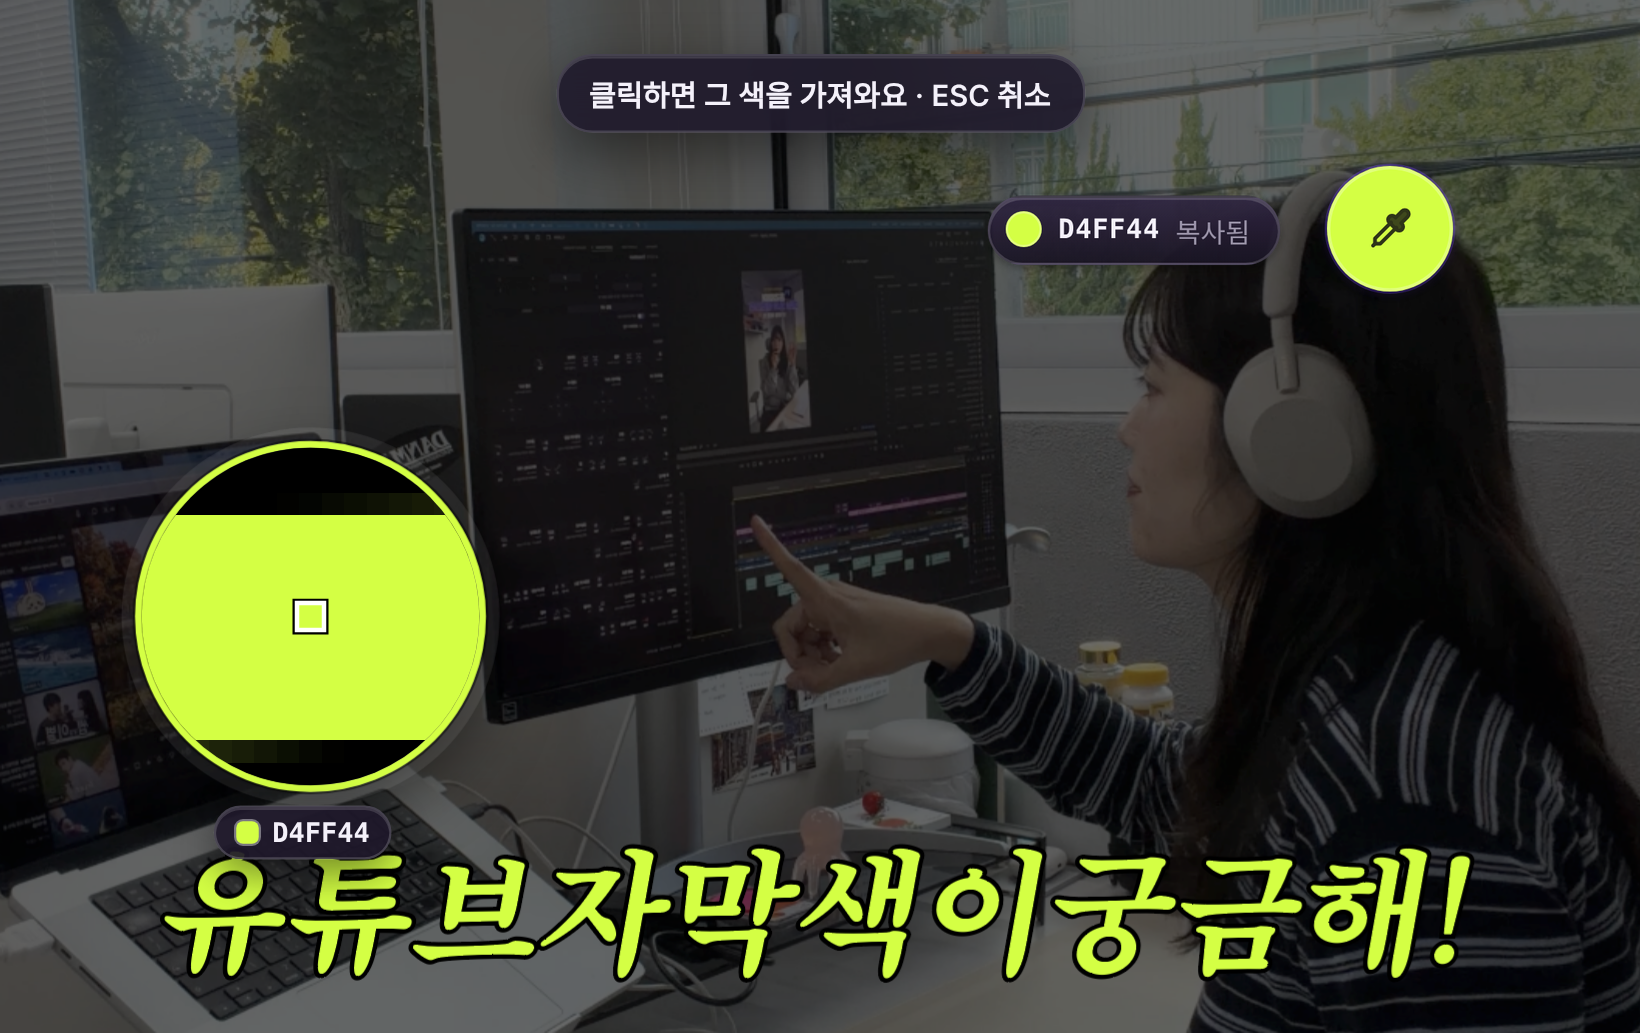
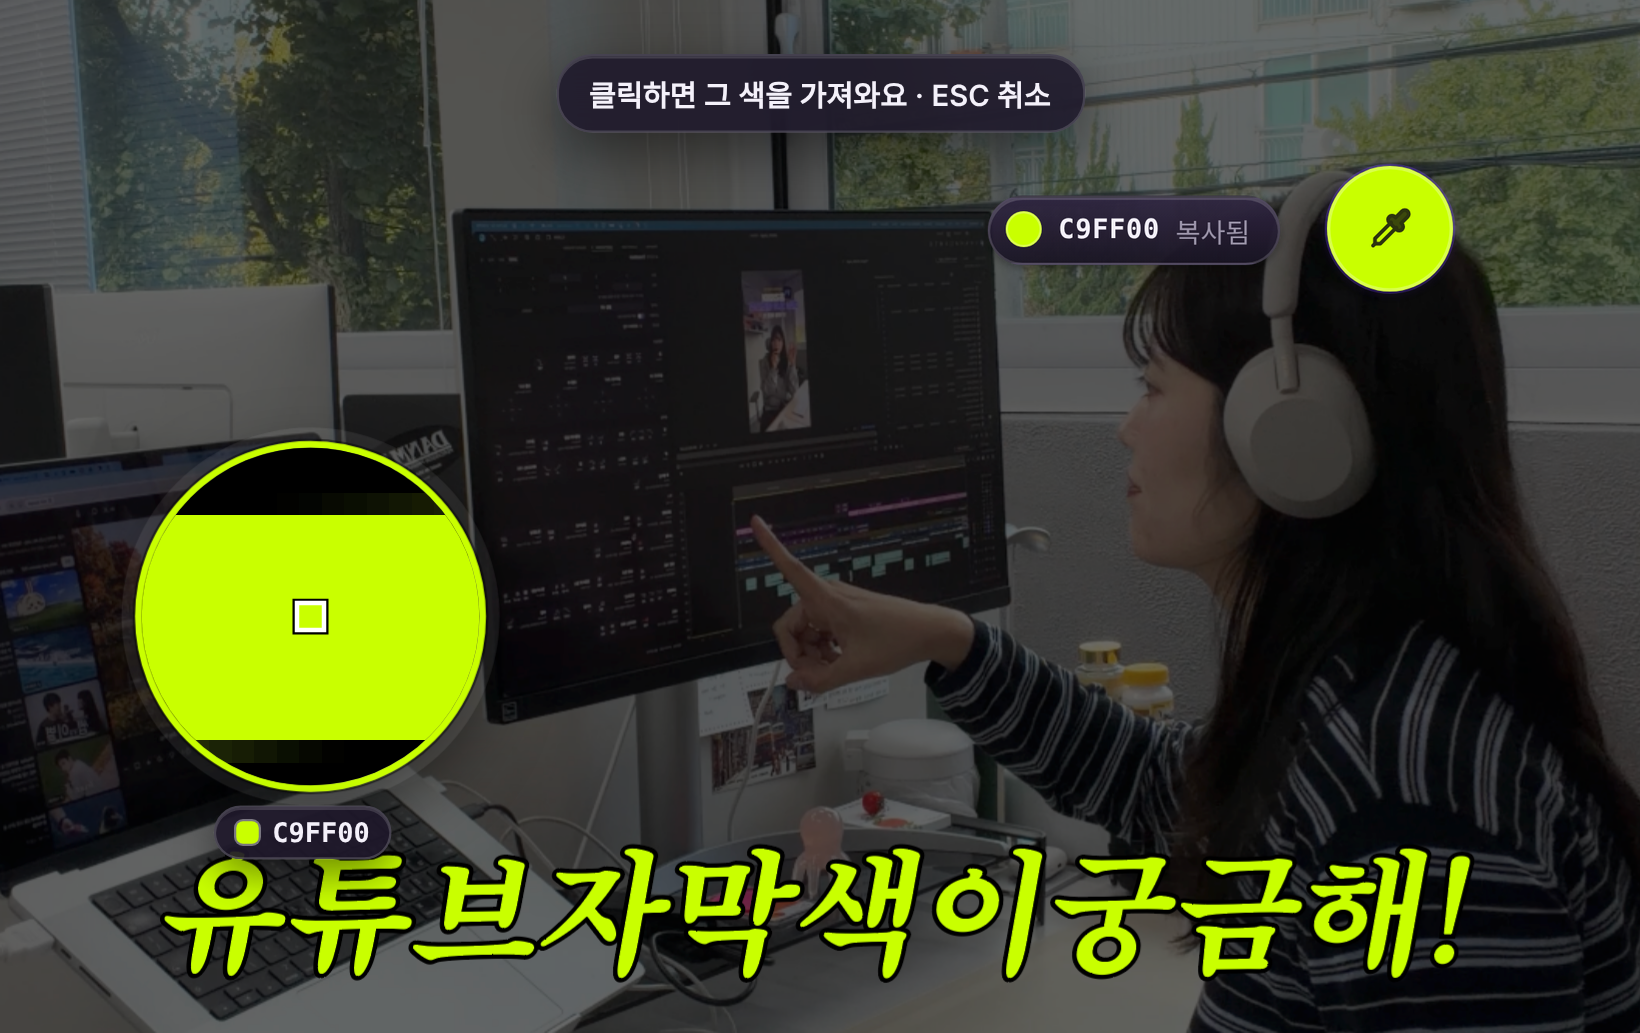
상세페이지: 기능 1 예시 되돌림, 맥·윈도우 설치 파일 포함 안내 추가
Claude-Session: https://claude.ai/code/session_01EN3DvmfasgiLr1rD7UWmUP

diff --git a/index.html b/index.html
@@ -161,12 +161,14 @@
     .row{grid-template-columns:1fr;gap:14px}.row .im{height:200px}
     table{font-size:15px}
   }
+  .dlnote{display:inline-block;margin-top:18px;font-size:17px;font-weight:700;color:#e9e3f5;background:rgba(255,255,255,.06);border:1px solid rgba(255,255,255,.12);padding:8px 18px;border-radius:99px}
 </style></head><body><div class="wrap">
   <nav class="top"><a class="brand" href="#"><img src="img2/icon-180.png" alt=""><span>0202<b>Swatch</b></span></a><div class="links"><a href="#features">기능</a><a href="#howto">사용 방법</a><a href="#spec">사양</a><a class="buy" href="https://0202production.imweb.me/shop">구매하기</a></div></nav>
   <div class="hero">
     <div>
       <span class="tag">컬러값, 아직도 메모장에서 복붙하시나요?</span>
       <h1>화면 어디서든<br><em>색을 뽑아 저장할 수 있어요</em></h1>
+      <p class="dlnote">🍎 맥 &nbsp;+&nbsp; 🪟 윈도우 설치 파일 모두 포함</p>
       <p class="lead">유튜브 화면, 레퍼런스 사진, 웹사이트 어디서든<br>클릭 한 번에 컬러값(#000000)을 복사할 수 있어요.<br>자주 쓰는 색은 프로젝트별로 저장하고,<br>팀원과 공유하세요.</p>
       
     </div>
@@ -199,7 +201,7 @@
     <h2>이런 걸 할 수 있어요</h2>
     <p class="sub2">컴퓨터에 설치하는 위젯이라<br>캡컷 · 파이널컷 · 프리미어 · 일러스트 등<br>어떤 프로그램을 쓰든 같이 쓸 수 있어요.</p>
     <div class="grid4">
-      <div class="feat"><img class="shot" src="img2/feat1.png?v=6"><div class="n">기능 1</div><h3>어디서든 색 수집, 자동 복사</h3><p>위젯을 누르거나 단축키를 누르면 확대경이 떠요.<br>원하는 곳을 찍는 순간 컬러값이 복사돼요.</p></div>
+      <div class="feat"><img class="shot" src="img2/feat1.png?v=7"><div class="n">기능 1</div><h3>어디서든 색 수집, 자동 복사</h3><p>위젯을 누르거나 단축키를 누르면 확대경이 떠요.<br>원하는 곳을 찍는 순간 컬러값이 복사돼요.</p></div>
       <div class="feat"><img class="shot c" src="img2/img.png"><div class="n">기능 2</div><h3>이미지·화면에서 색 조합 뽑기</h3><p>화면을 캡처하거나 이미지를 넣으면<br>추천 조합 5색과 많이 쓰인 색 8개를 뽑아줘요.<br>바로 프로젝트에 저장할 수 있어요.</p></div>
       <div class="feat"><img class="shot c" src="img2/f3.png"><div class="n">기능 3</div><h3>0202 기본 컬러 조합</h3><p>예능 자막, 정보·뉴스 그래픽, 브이로그 감성,<br>파스텔, 시네마틱, 레트로·Y2K, 무채색까지<br>바로 쓸 수 있는 조합이 들어 있어요.</p></div>
       <div class="feat"><img class="shot" src="img2/feat4.png"><div class="n">기능 4</div><h3>프로젝트별 관리 · 팀 공유</h3><p>클라이언트·채널별 폴더에 색을 모아두고,<br>컬러칩 이미지나 공유 코드로 팀원에게 넘겨줘요.<br>폴더 이름까지 그대로 가요.</p></div>
@@ -221,7 +223,7 @@
     <h2>사용 방법</h2>
     <p class="sub2">자주 쓰는 것부터 순서대로 모았어요.</p>
     <div class="use">
-      <div class="row"><div class="im "><img src="img2/loupe.png?v=6"></div><div><h3>🎯 색 뽑기</h3><ol><li>화면의 동그란 위젯 클릭<br>또는 단축키 <b>⌥⌘C</b> (윈도우 <b>Ctrl+Alt+C</b>)</li><li>확대경이 뜨면 원하는 곳 클릭</li><li>컬러값이 바로 복사돼요 · 취소는 Esc</li></ol></div></div>
+      <div class="row"><div class="im "><img src="img2/loupe.png?v=7"></div><div><h3>🎯 색 뽑기</h3><ol><li>화면의 동그란 위젯 클릭<br>또는 단축키 <b>⌥⌘C</b> (윈도우 <b>Ctrl+Alt+C</b>)</li><li>확대경이 뜨면 원하는 곳 클릭</li><li>컬러값이 바로 복사돼요 · 취소는 Esc</li></ol></div></div>
       <div class="row"><div class="im "><img src="img2/img.png"></div><div><h3>🖼 화면 캡처·이미지로<br>색 조합 뽑기</h3><ol><li><b>화면 영역 캡처</b> → 원하는 영역 드래그</li><li>이미지 파일은 <b>이미지에서 색 추출</b><br>또는 팔레트에 끌어놓기</li><li>추천 조합을 프로젝트에 저장</li></ol></div></div>
       <div class="row"><div class="im "><img src="img2/drag.png"></div><div><h3>✋ 드래그앤드롭으로 저장</h3><ol><li>최근 색을 프로젝트 폴더로 끌어놓기</li><li>폴더 안에서 끌면 순서 변경</li><li><b>⌥(Alt)</b>를 누른 채 끌면 복제</li></ol></div></div>
       <div class="row"><div class="im "><img src="img2/plus.png"></div><div><h3>➕ 지금 색 바로 넣기</h3><ol><li>폴더 맨 끝 점선 <b>＋</b> 클릭</li><li>현재 색이 맨 앞에 추가돼요</li><li>＋를 우클릭하면 색 고르기 창</li></ol></div></div>
@@ -241,6 +243,7 @@
     <p class="sub2">한 번 구매하면<br>맥·윈도우 설치 파일을 모두 받을 수 있어요.</p>
     <table>
       <tr><th>운영체제</th><th>지원 사양</th></tr>
+      <tr><td>다운로드 파일</td><td><b>맥(.dmg)</b>과 <b>윈도우(.exe)</b> 설치 파일이<br>한 번에 모두 들어 있어요.</td></tr>
       <tr><td>맥</td><td>macOS 11 Big Sur 이상<br>Apple 실리콘(M1~M4) · 인텔 맥 모두 지원</td></tr>
       <tr><td>윈도우</td><td>Windows 10 · 11 (64비트)</td></tr>
       <tr><td>필요한 권한</td><td>맥은 처음 실행할 때 <b>화면 기록</b> 권한을<br>허용해야 색을 뽑을 수 있어요.</td></tr>

diff --git a/preview/index.html b/preview/index.html
@@ -14,5 +14,5 @@ h1{font-size:22px;line-height:1.4;margin-bottom:14px}.pr s{color:#aaa;margin-rig
 <header>공이공이 프로덕션 <span style="font-weight:400;color:#999;font-size:13px">· 상세페이지 미리보기</span></header>
 <div class="top"><img src="../store/thumbnail.png"><div><h1>0202Swatch - 어디서든 색 뽑는 스와치 위젯 (맥/윈도우)</h1><div class="pr"><s>9,900원</s><b>4,900원</b></div><div class="btn">구매하기</div></div></div>
 <div class="tabs"><span>상세정보</span></div>
-<div class="detail"><img src="detail.jpg?v=8"></div>
+<div class="detail"><img src="detail.jpg?v=9"></div>
 </body></html>
